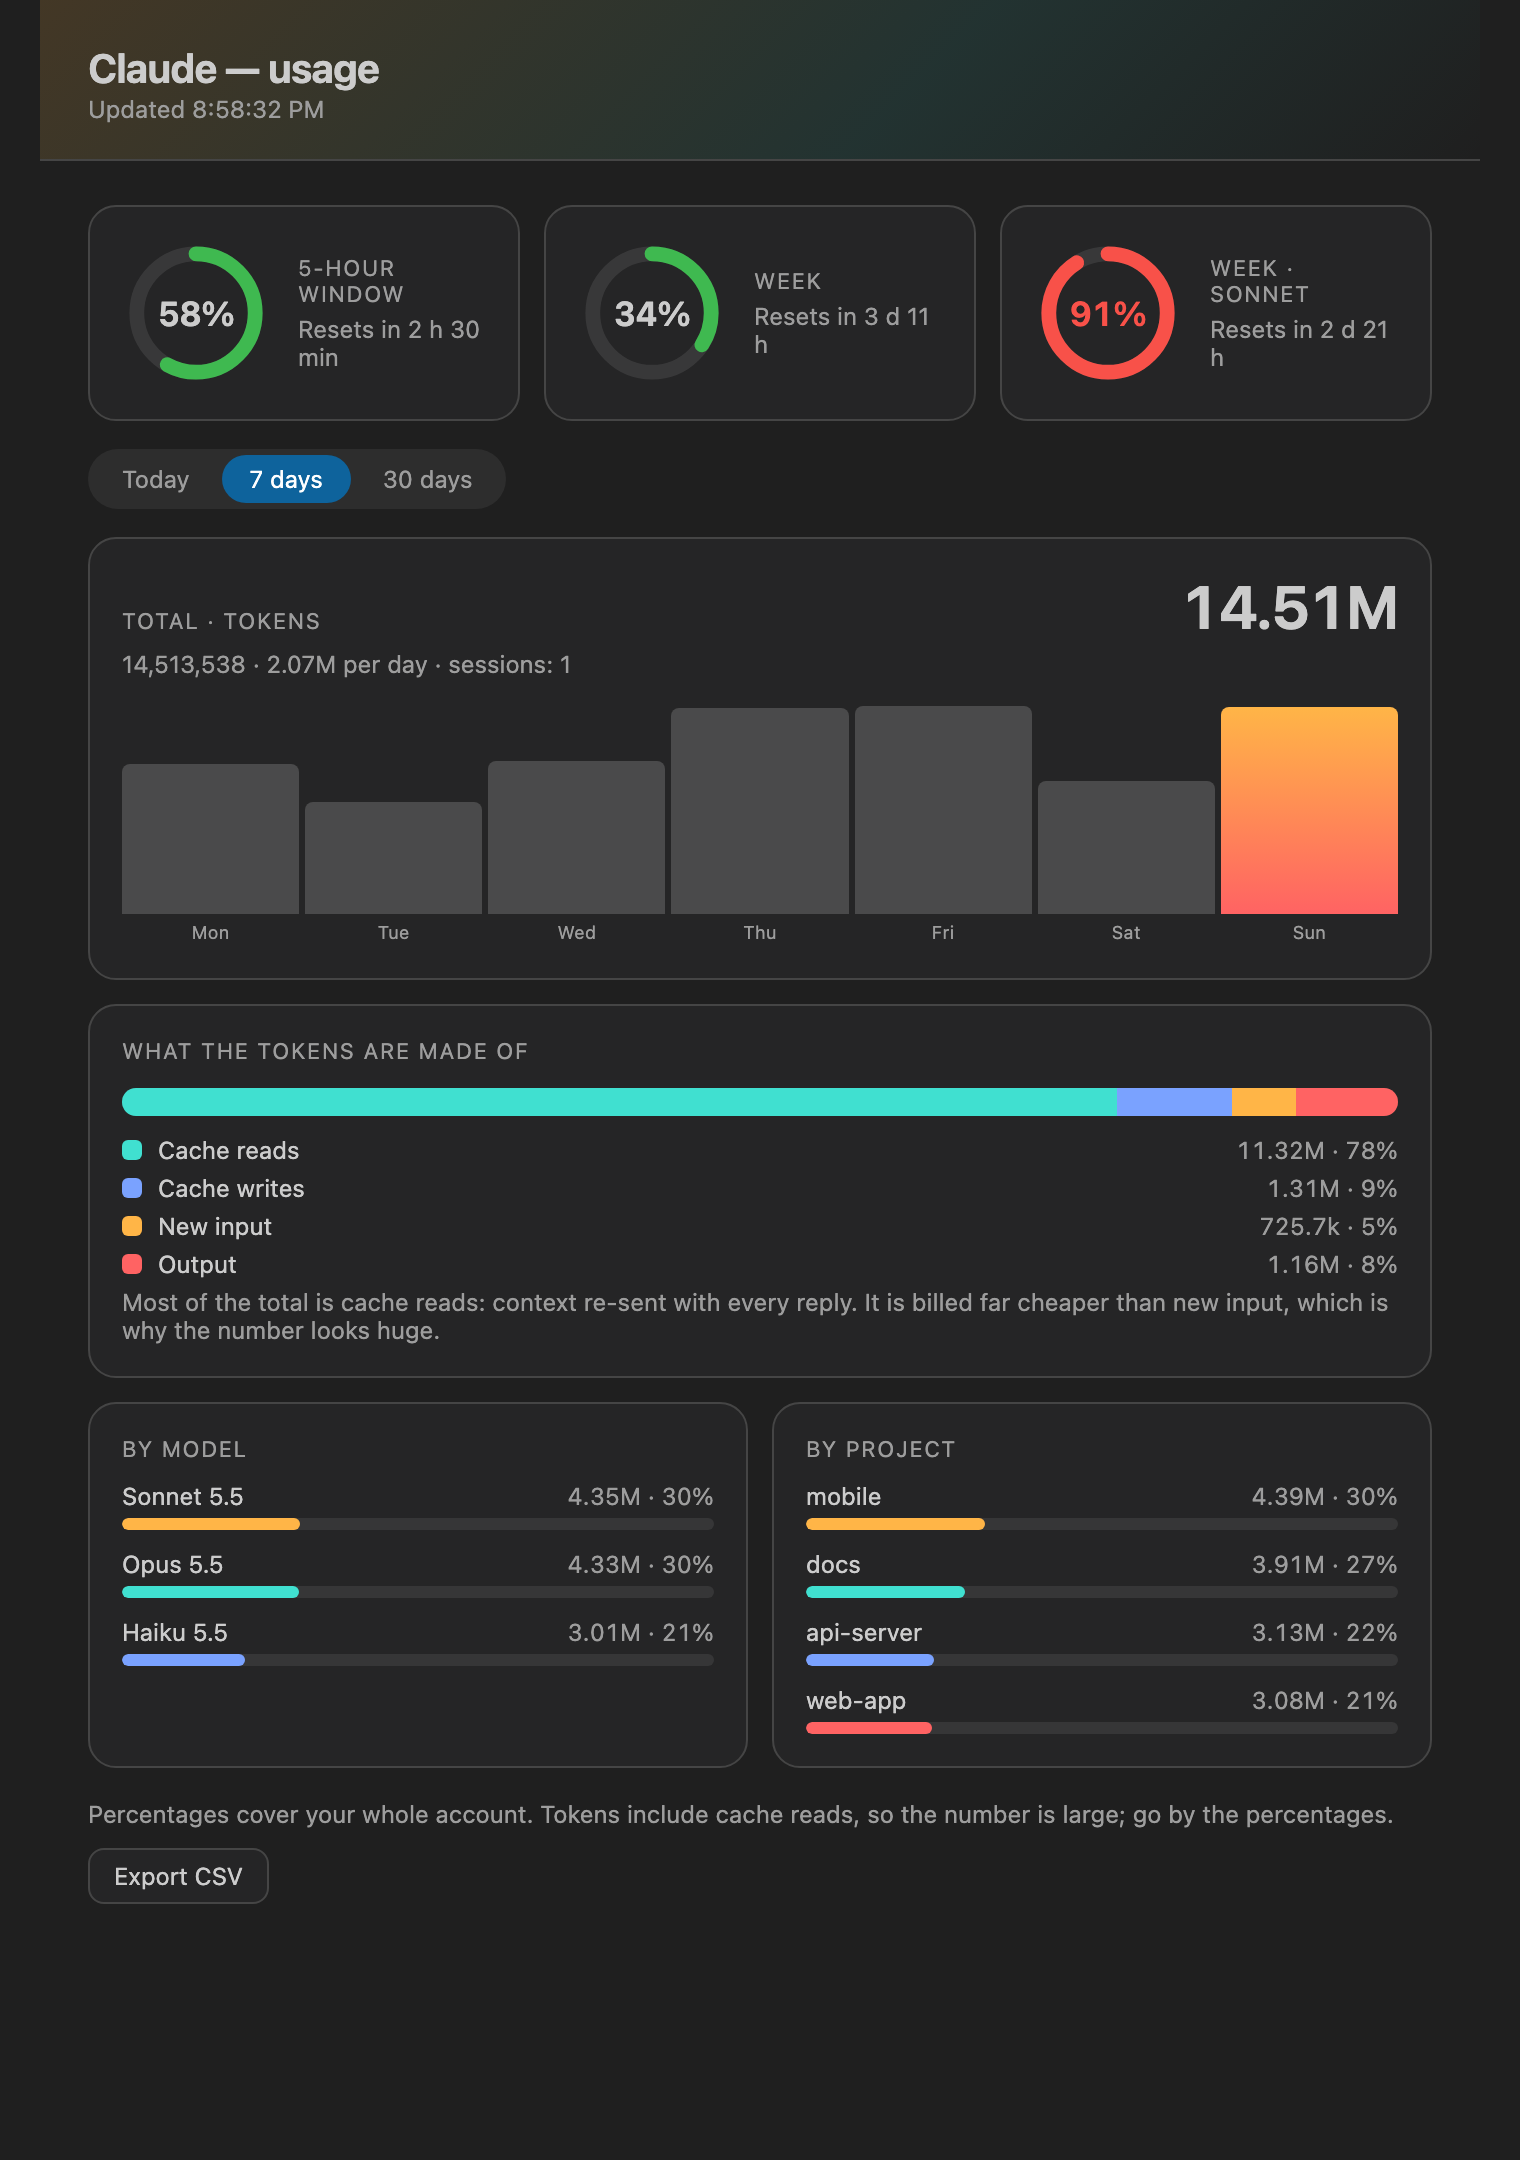
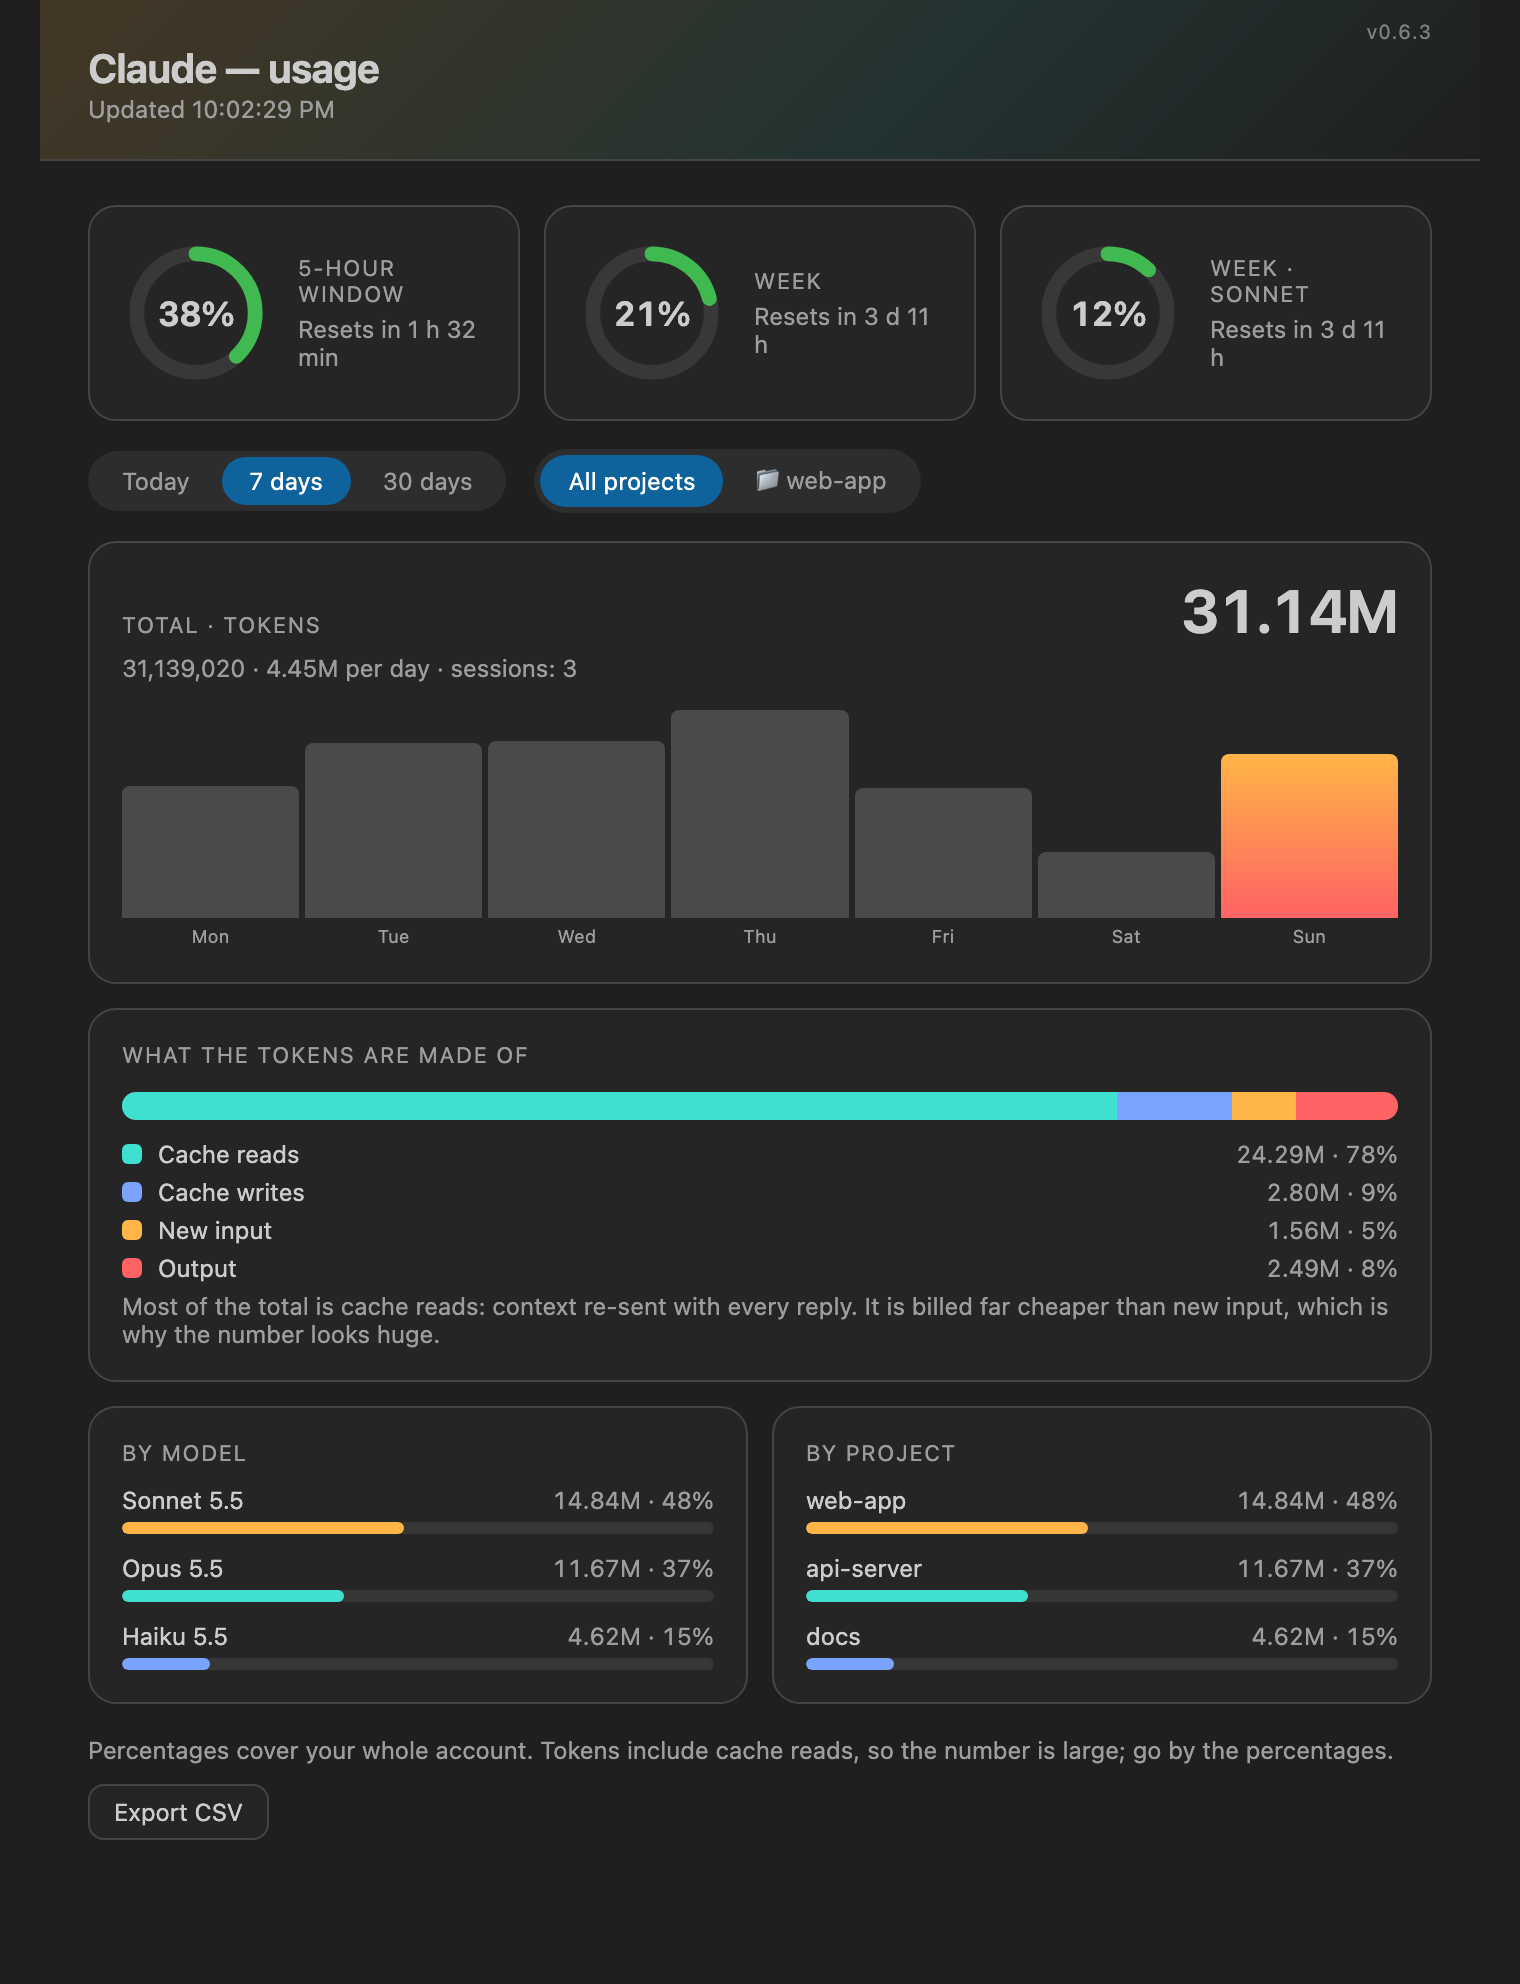
README: current screenshots, the status bar tooltip, Russian images
New panel screenshots (dark, light with the project switch, Russian), and
the status bar item with its tooltip in English and Russian, all drawn from
the extension's own output with sample data.

diff --git a/README.md b/README.md
@@ -15,8 +15,12 @@ alerts and a pace forecast — right in the status bar of VS Code, Antigravity a
 
 <p align="center"><a href="#русская-версия">Русская версия ↓</a></p>
 
+<p align="center"><img src="assets/statusbar.png" width="700" alt="Status bar item and its tooltip: limits, tokens, version"></p>
+<p align="center"><sub>The status bar item and its hover tooltip.</sub></p>
+
 <p align="center"><img src="assets/panel-dark.png" width="640" alt="Usage panel, dark theme"></p>
-<p align="center"><sub>Sample data. The panel follows your editor theme.</sub></p>
+<p align="center"><sub>The panel (click the status bar item → menu → Open panel). It follows your editor theme.</sub></p>
+<p align="center"><sub>Mock-ups drawn from the extension's own output with sample data; your editor's fonts will differ a little.</sub></p>
 
 > **Unofficial.** Not affiliated with or endorsed by Anthropic. "Claude" is a trademark of its owner; it is used here only to say what the tool works with.
 
@@ -35,7 +39,7 @@ alerts and a pace forecast — right in the status bar of VS Code, Antigravity a
 | **CSV export** | by day and model, by day and project, or raw rows; opens cleanly in Excel / Numbers |
 | **Languages** | Russian and English, picked from the editor language |
 
-<p align="center"><img src="assets/panel-light.png" width="640" alt="Usage panel, light theme, 30 days"></p>
+<p align="center"><img src="assets/panel-light.png" width="640" alt="Usage panel, light theme, 30 days, only the open project"></p>
 
 ## How it works
 
@@ -138,6 +142,12 @@ No dependencies and no build step: the extension is a single JavaScript file.
 <p align="center"><b>Claude Usage Monitor</b> показывает лимиты Claude Code — на <b>5 часов</b> и на <b>неделю</b> — и расход токенов по <b>дням, моделям и проектам</b>. Предупреждает, когда лимит на исходе, и прикидывает, насколько его хватит. Всё это в строке состояния VS Code, Antigravity и Cursor.</p>
 
 > **Неофициальный проект.** Он не связан с Anthropic и не одобрен ею. Название «Claude» принадлежит правообладателю и указано лишь затем, чтобы было понятно, с чем работает инструмент.
+
+<p align="center"><img src="assets/statusbar-ru.png" width="700" alt="Элемент строки состояния и его подсказка: лимиты, токены, версия"></p>
+<p align="center"><sub>Элемент строки состояния и подсказка при наведении.</sub></p>
+
+<p align="center"><img src="assets/panel-ru.png" width="640" alt="Панель расхода, тёмная тема"></p>
+<p align="center"><sub>Панель (клик по строке состояния → меню → «Открыть панель»). Скриншоты нарисованы по настоящему выводу расширения на тестовых данных; шрифты в вашем редакторе будут немного другими.</sub></p>
 
 ## Что умеет
 

diff --git a/extension/README.md b/extension/README.md
@@ -7,8 +7,11 @@ Your Claude Code <b>5-hour</b> and <b>weekly</b> limits, tokens by <b>day, model
 alerts and a pace forecast — right in the status bar of VS Code, Antigravity and Cursor.
 </p>
 
+<p align="center"><img src="https://raw.githubusercontent.com/AndreyKilanov/claude-usage-monitor/main/assets/statusbar.png" width="700" alt="Status bar item and its tooltip: limits, tokens, version"></p>
+<p align="center"><sub>The status bar item and its hover tooltip.</sub></p>
+
 <p align="center"><img src="https://raw.githubusercontent.com/AndreyKilanov/claude-usage-monitor/main/assets/panel-dark.png" width="640" alt="Usage panel, dark theme"></p>
-<p align="center"><sub>Sample data. The panel follows your editor theme.</sub></p>
+<p align="center"><sub>The panel follows your editor theme. Mock-ups drawn from the extension's own output with sample data.</sub></p>
 
 > **Unofficial.** Not affiliated with or endorsed by Anthropic. "Claude" is a trademark of its owner; it is used here only to say what the tool works with.
 
